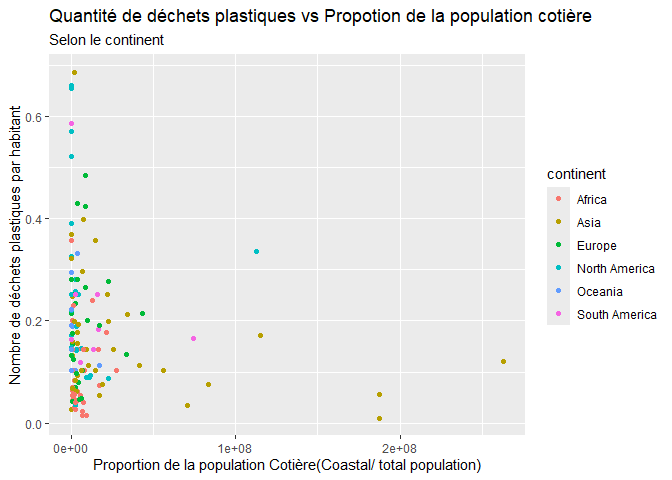
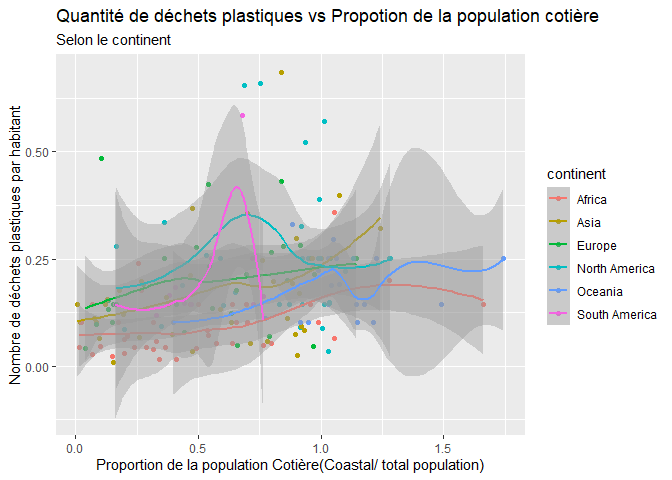
fin devoir

diff --git a/lab-02.md b/lab-02.md
@@ -109,37 +109,47 @@ des endroits qui continnent des pays plus en difficulté en général.
 ### Exercise 5
 
 ``` r
-ggplot(plastic_waste, aes(x = plastic_waste_per_cap)) +
-  geom_histogram()
+ggplot(plastic_waste, aes(x = plastic_waste_per_cap, y = total_pop)) +
+  geom_point() +
+   labs(title = "Nombre de déchets plastiques par habtiant pour la population total", x = "Nombre de déchets plastiques par habtitant", y = "Population")
 ```
 
-    ## `stat_bin()` using `bins = 30`. Pick better value with `binwidth`.
+    ## Warning: Removed 10 rows containing missing values or values outside the scale range
+    ## (`geom_point()`).
 
 ![](lab-02_files/figure-gfm/plastic-waste-population-total-1.png)<!-- -->
 
 ``` r
-ggplot(plastic_waste, aes(x = total_pop)) +
-  geom_histogram()
+ggplot(plastic_waste, aes(x = plastic_waste_per_cap, y = coastal_pop)) +
+  geom_point() +
+  labs(title = "Nombre de déchets plastiques par habtiant pour la population Cotière", x = "Nombre de déchets plastiques par habtitant", y = "Population Cotière")
 ```
-
-    ## `stat_bin()` using `bins = 30`. Pick better value with `binwidth`.
-
-    ## Warning: Removed 10 rows containing non-finite outside the scale range
-    ## (`stat_bin()`).
 
 ![](lab-02_files/figure-gfm/plastic-waste-population-coastal-1.png)<!-- -->
 
-Réponse à la question…
+Oui, il semble avoir une relation un peu plus forte entre la population
+total et le noombre de déchets par habitant. Cependant, il semble avoir
+plus de population du coter cotier donc la relation semble être plutôt
+semblable.
 
 ## Conclusion
 
 Recréez la visualisation:
 
 ``` r
-ggplot(plastic_waste, aes(x = coastal_pop, y = plastic_waste_per_cap, colour = continent)) +
+ggplot(plastic_waste, aes(x = coastal_pop / total_pop, y = plastic_waste_per_cap, colour = continent)) +
   geom_point() +
+  geom_smooth() +
   labs(title = "Quantité de déchets plastiques vs Propotion de la population cotière", subtitle = "Selon le continent", x = "Proportion de la population Cotière(Coastal/ total population)", y = "Nombre de déchets plastiques par habitant")
 ```
+
+    ## `geom_smooth()` using method = 'loess' and formula = 'y ~ x'
+
+    ## Warning: Removed 10 rows containing non-finite outside the scale range
+    ## (`stat_smooth()`).
+
+    ## Warning: Removed 10 rows containing missing values or values outside the scale range
+    ## (`geom_point()`).
 
 ![](lab-02_files/figure-gfm/recreate-viz-1.png)<!-- -->
 
@@ -148,3 +158,6 @@ Plastic_waste_coastal <- plastic_waste %>%
   mutate(coastal_pop_prop = coastal_pop / total_pop) %>%
   filter(plastic_waste_per_cap < 3)
 ```
+
+Il y a une proportion non linéaire entre le nombre de déchets plastiques
+avec la population Cotière.
